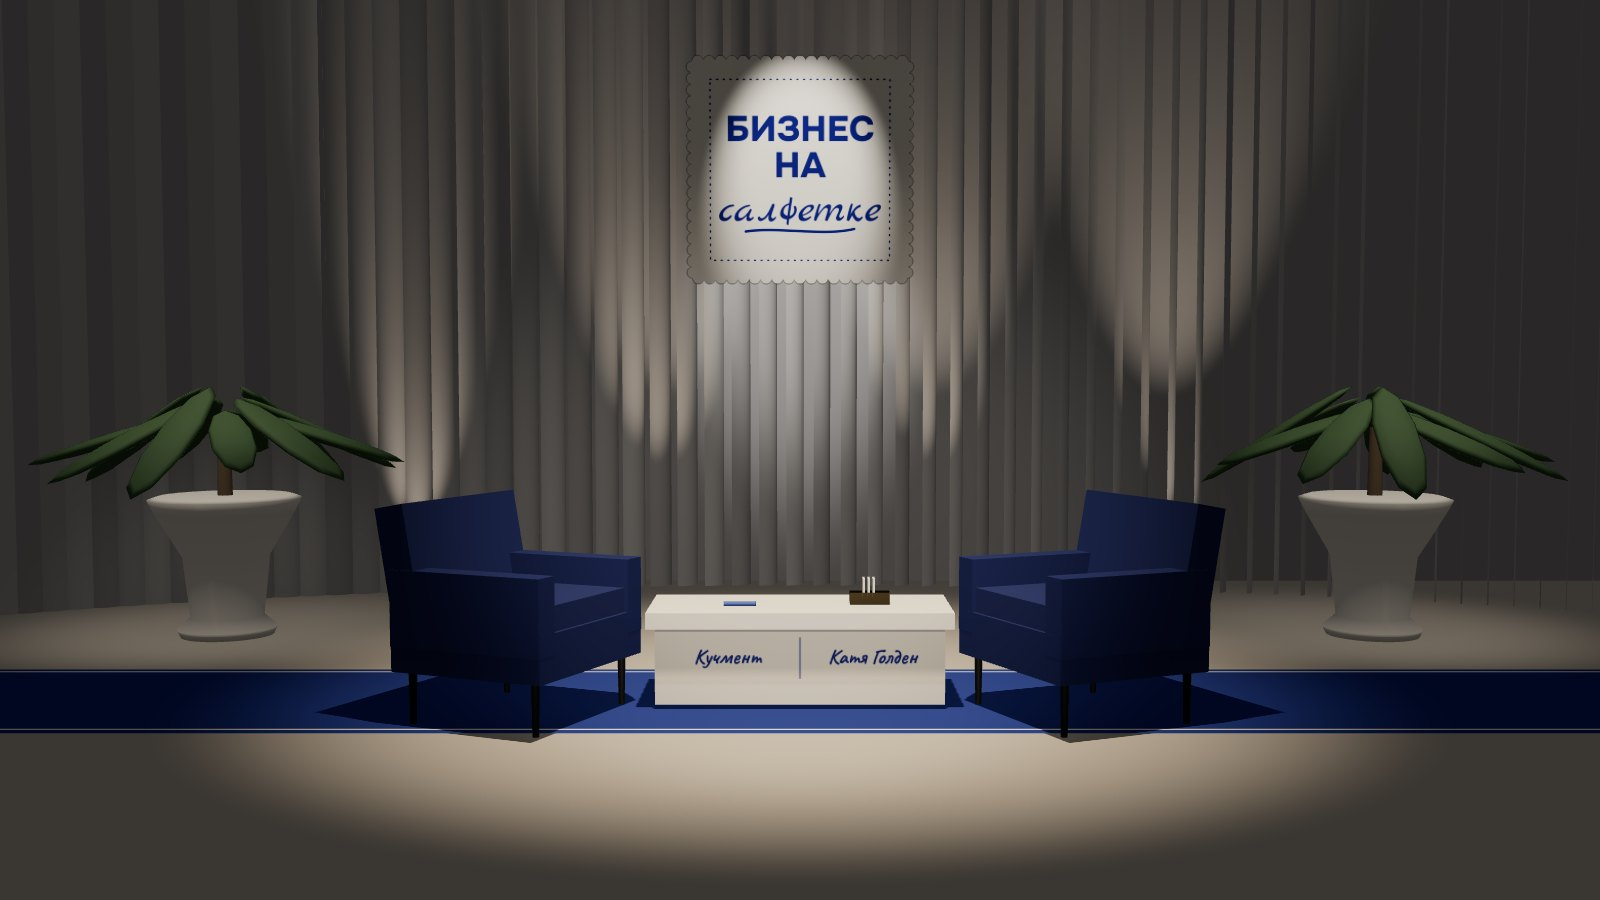
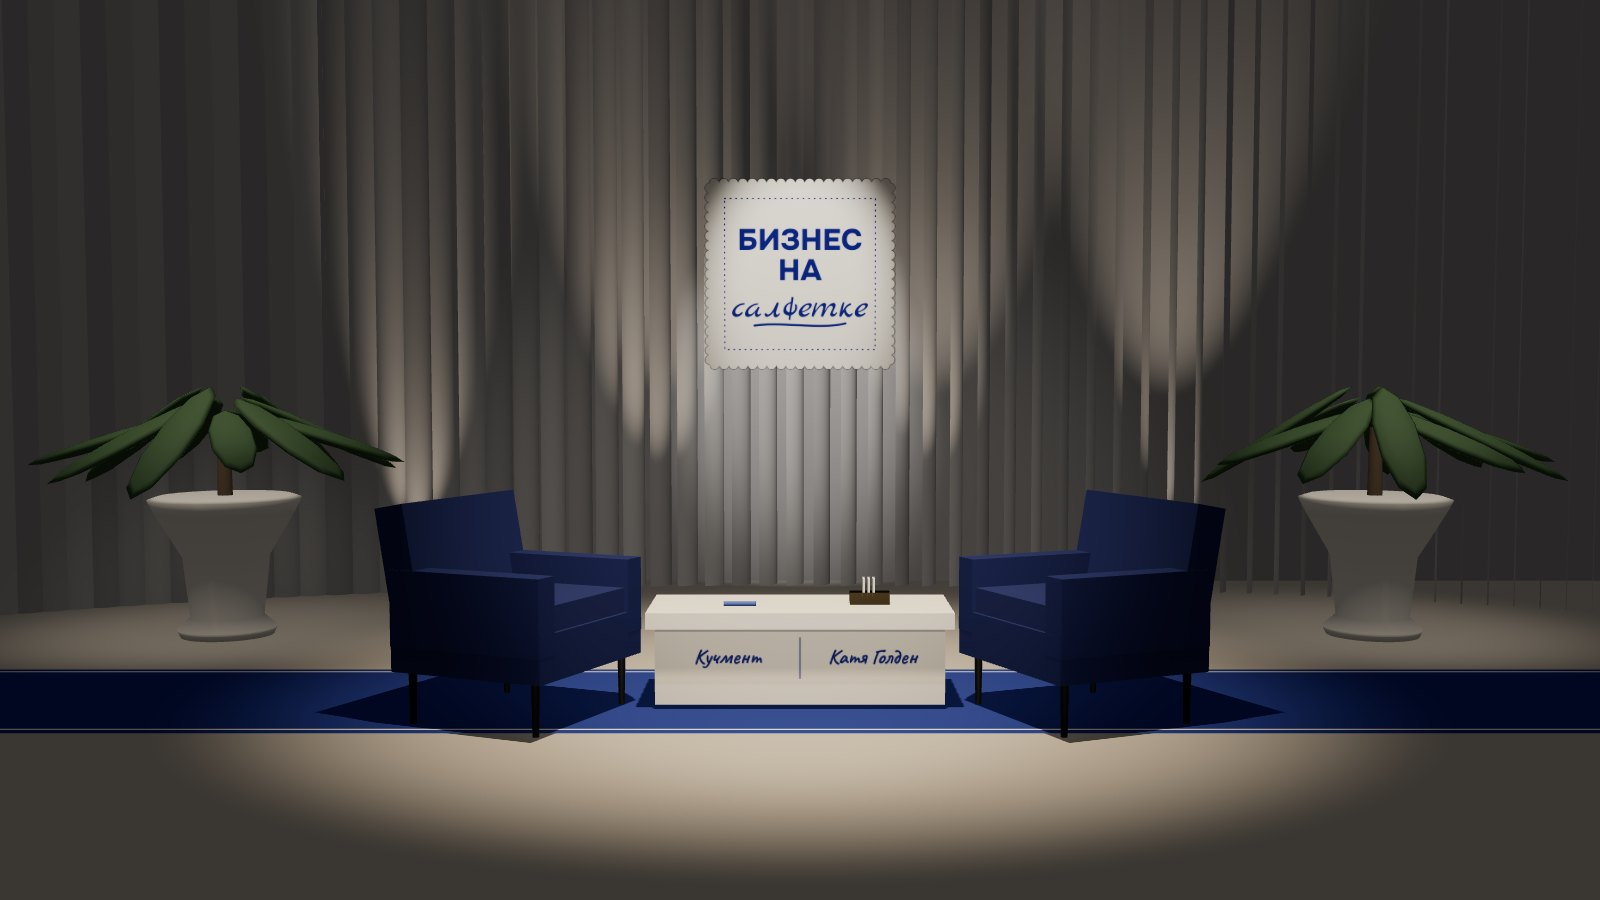
Логотип на шторах ниже
Claude-Session: https://claude.ai/code/session_01JqA9mxb2UcCAa9NfNrfw51

Changed region(s): [[0.4062, 0.0622, 0.5938, 0.6533]]

diff --git a/scenes.js b/scenes.js
@@ -183,10 +183,10 @@
       x.fillStyle='#1d3592';x.textAlign='center';x.textBaseline='alphabetic';x.font='800 138px '+fontS;x.fillText('БИЗНЕС',w/2,400);x.fillText('НА',w/2,540);x.font='170px '+hand;x.fillText('салфетке',w/2,710);
       x.lineWidth=10;x.beginPath();x.moveTo(300,750);x.bezierCurveTo(430,730,600,770,724,740);x.stroke()})}
     const lcMat=new T.MeshBasicMaterial({transparent:true,toneMapped:false,color:0xfff3e2});
-    const lc=new T.Mesh(new T.PlaneGeometry(5.6,1.4),lcMat);lc.position.set(0,3.4,-3.25);scene.add(lc);
+    const lc=new T.Mesh(new T.PlaneGeometry(5.6,1.4),lcMat);lc.position.set(0,2.45,-3.25);scene.add(lc);
     const lbMat=new T.MeshStandardMaterial({transparent:true,roughness:.9});
-    const lb=new T.Mesh(new T.PlaneGeometry(1.9,1.9),lbMat);lb.position.set(0,3.1,-3.25);lb.castShadow=true;scene.add(lb);
-    const lbSpot=new T.SpotLight(0xfff0dc,1.6,8,Math.PI/14,.6,1.2);lbSpot.position.set(0,5.6,-1.2);lbSpot.target.position.set(0,3.1,-3.25);scene.add(lbSpot,lbSpot.target);
+    const lb=new T.Mesh(new T.PlaneGeometry(1.6,1.6),lbMat);lb.position.set(0,2.35,-3.25);lb.castShadow=true;scene.add(lb);
+    const lbSpot=new T.SpotLight(0xfff0dc,1.6,8,Math.PI/14,.6,1.2);lbSpot.position.set(0,5.2,-.6);lbSpot.target.position.set(0,2.35,-3.25);scene.add(lbSpot,lbSpot.target);
     let lt={};function logo(k){lc.visible=k==='C';lb.visible=k==='B';lbSpot.visible=k==='B';if(k==='C'&&!lt.C){lt.C=logoC();lcMat.map=lt.C;lcMat.needsUpdate=true}if(k==='B'&&!lt.B){lt.B=logoB();lbMat.map=lt.B;lbMat.needsUpdate=true}}
     logo(window.INK_LOGO||'C');
     anch.push({p:new T.Vector3(4.4,.02,.35),t:'1'},{p:new T.Vector3(0,.27,.9),t:'2'},{p:new T.Vector3(0,.6,.35),t:'3'},{p:new T.Vector3(3.6,1.6,-1.6),t:'4'},{p:new T.Vector3(-1.6,3.2,-3.9),t:'5'});
